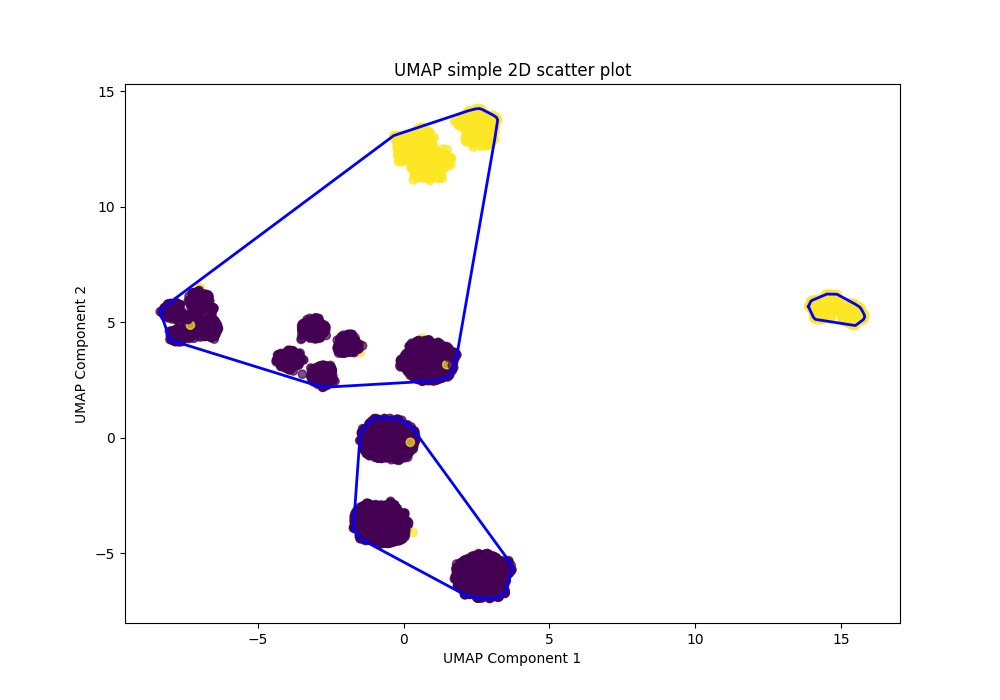
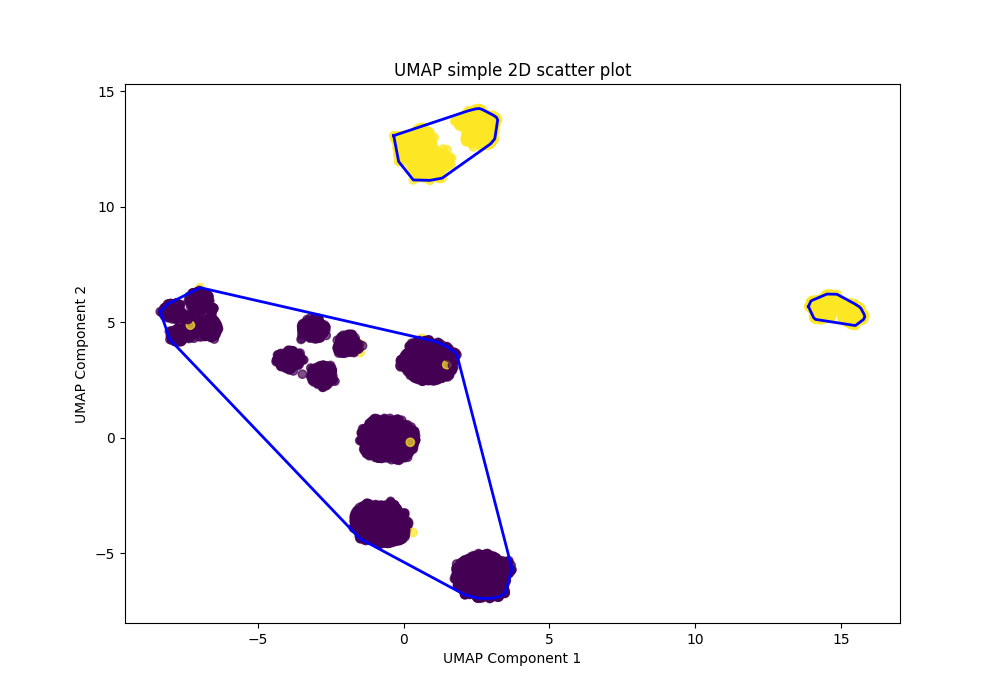
tsne 28

diff --git a/dimension_reduction.py b/dimension_reduction.py
@@ -4,7 +4,6 @@ import pandas as pd
 import numpy as np
 import matplotlib.pyplot as plt
 import umap
-from numpy.core.records import ndarray
 from sklearn.decomposition import PCA
 from sklearn.manifold import TSNE
 from sklearn.preprocessing import StandardScaler, LabelEncoder
@@ -126,7 +125,7 @@ def save_results_to_image(reducer_display_name, cluster_display_name, num_comps,
     for cluster in clusters:
         hull_points = cluster[1]
 
-        if isinstance(hull_points, ndarray):
+        if isinstance(hull_points, np.ndarray):
             shape = hull_points.shape
 
             if isinstance(shape, tuple) and len(shape) == 2:#3?
